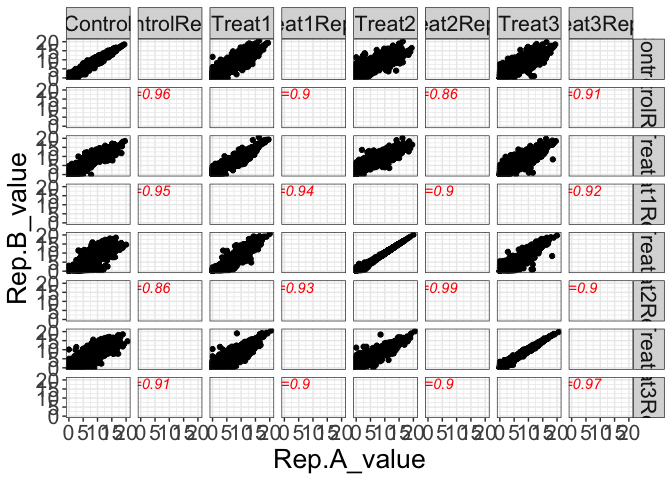
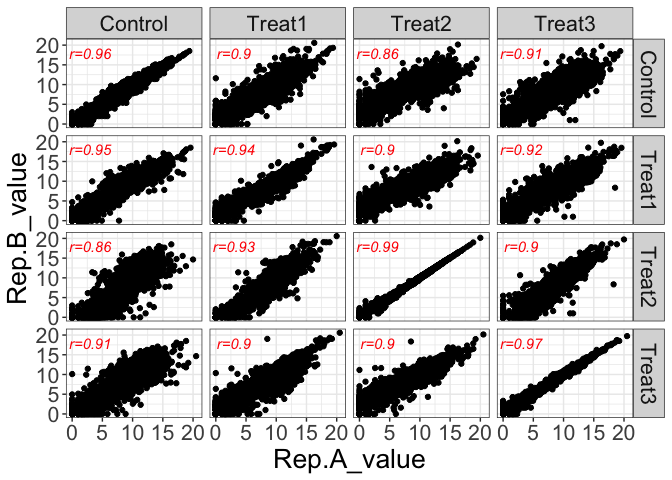
update

diff --git a/README.md b/README.md
@@ -82,7 +82,7 @@ csp
 cor_tbl2 <- cor_tbl %>% dplyr::rename(`Rep.A`=var1, `Rep.B` = var2) %>% 
   dplyr::filter(grepl("Rep.A" ,`Rep.A`)) %>%
   dplyr::filter(grepl("Rep.B" ,`Rep.B`)) %>% 
-  TidyWrappers::tbl_replace_string("_*" , "")
+  TidyWrappers::tbl_replace_string("_.*" , "")
 
 csp + ggplot2::geom_text(data = cor_tbl2,  x = 3, y = 18, ggplot2::aes(label = paste("r","=",corr , sep = "")) , 
                          fontface="italic" , col = "red")
